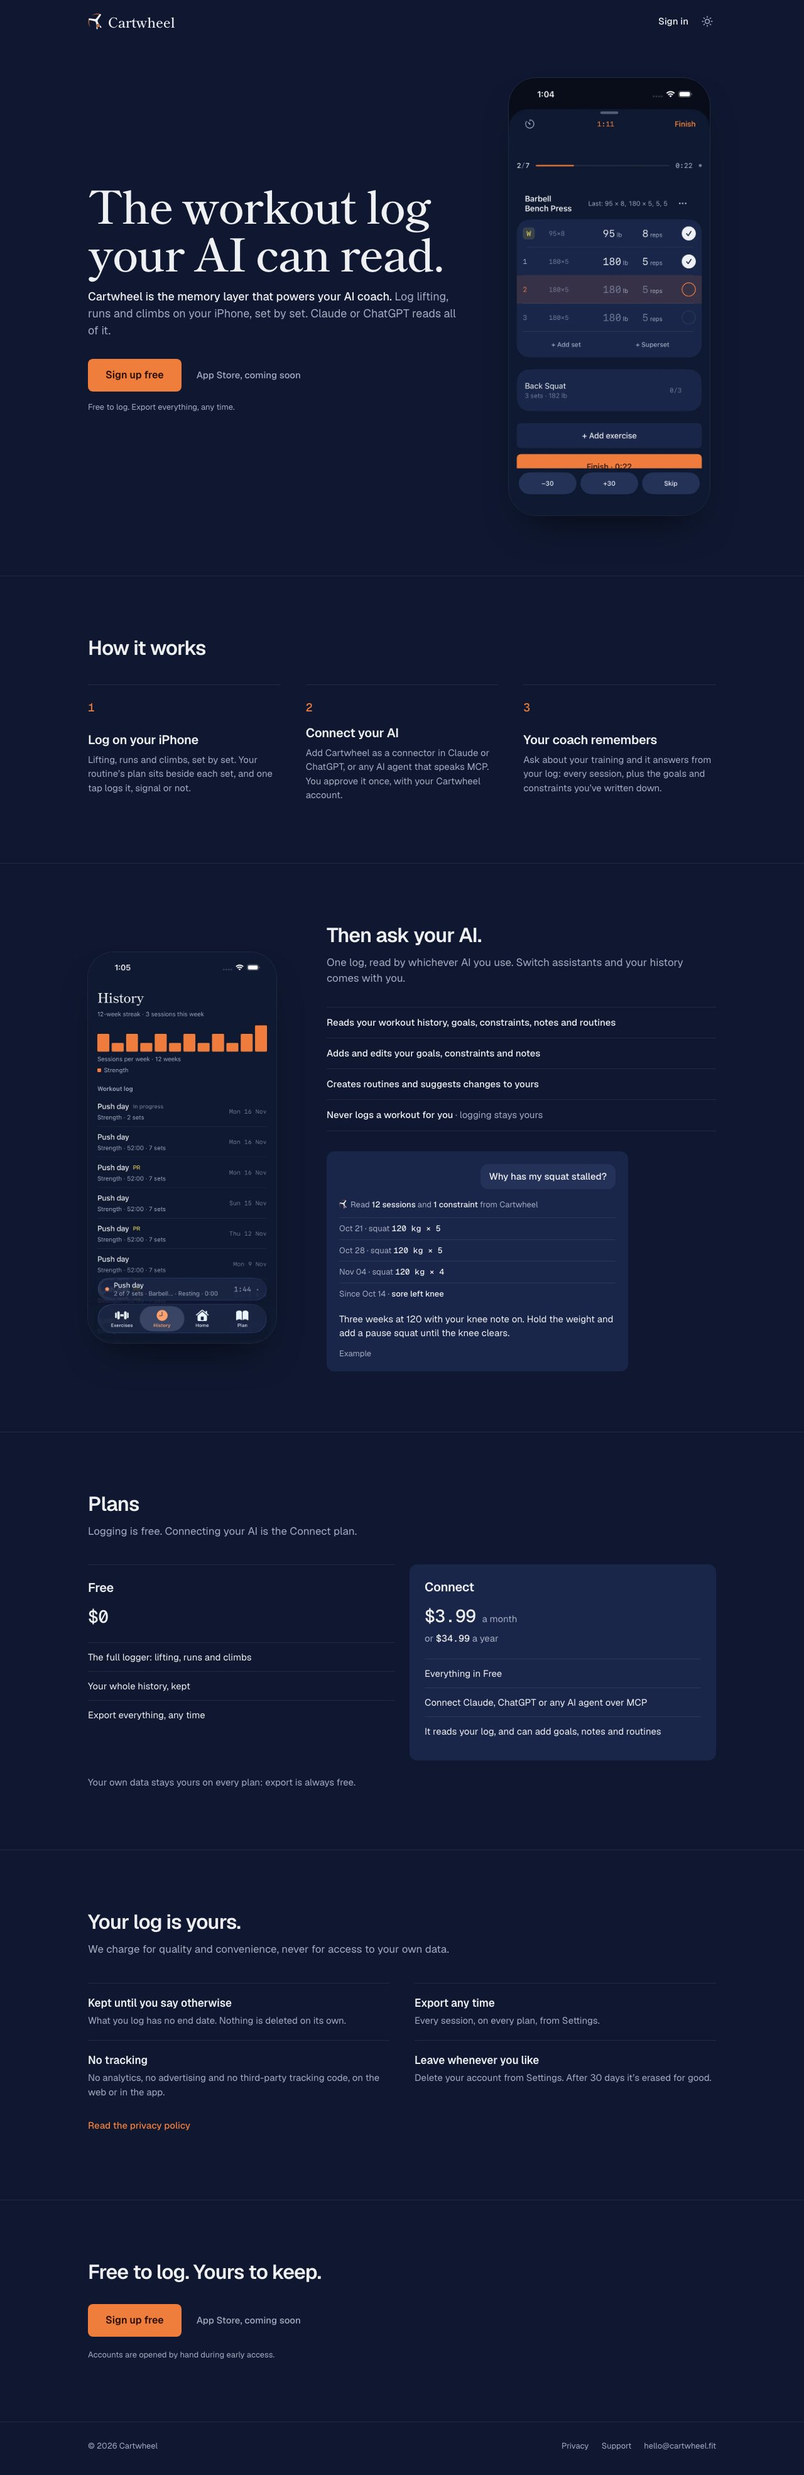
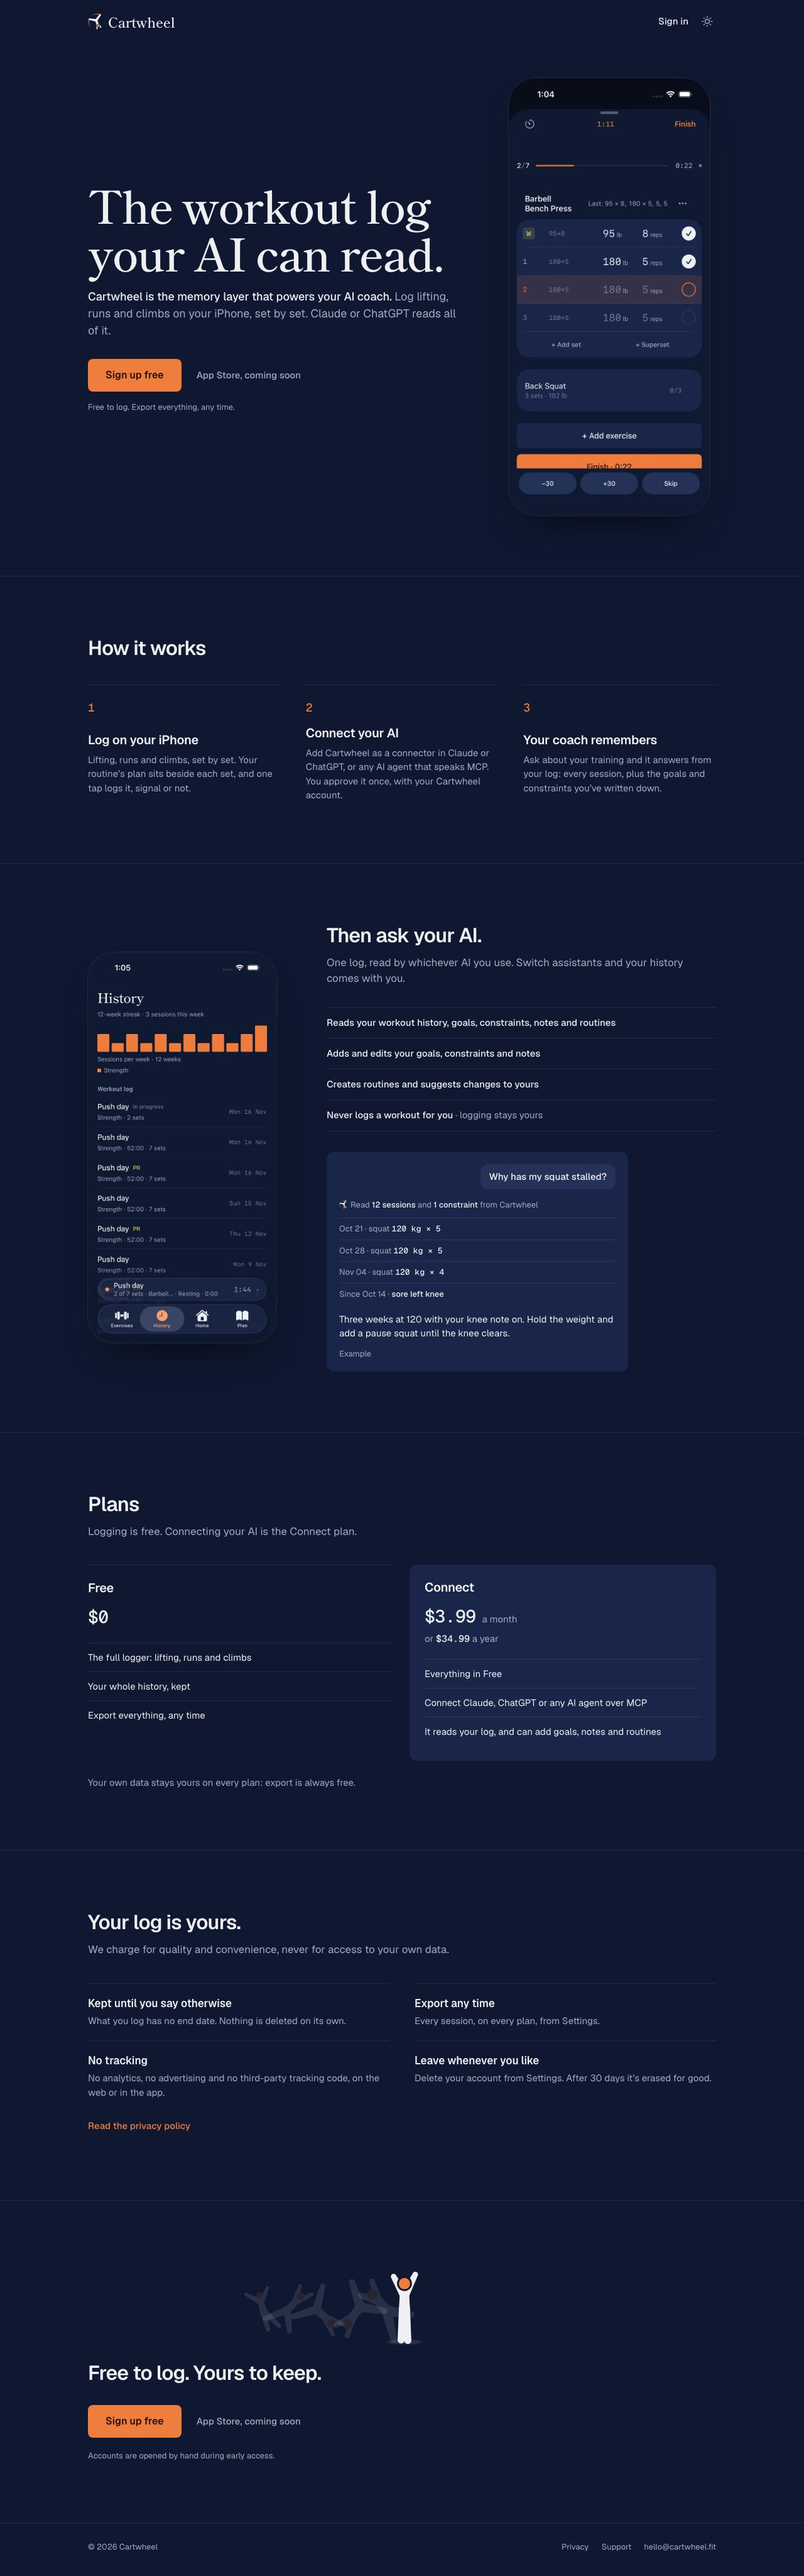
Add the app's cartwheel above the last call to sign up
The icon's figure does one cartwheel and lands at the right, leaving
five faint poses behind it. It is a straight port of the app's
CartwheelTumble (kata AND-1403) to a canvas, with the same keyframes and
numbers. It plays once when it scrolls into view, shows the landed pose
with reduced motion, follows the theme switch, and is hidden without
JavaScript. Screenshots retaken.

diff --git a/index.html b/index.html
@@ -265,6 +265,10 @@
 
     /* Last call */
     .end { text-align: left; }
+    /* The app's cartwheel (kata AND-1403, ios/Kata/Domain/CartwheelTumble.swift), drawn by the
+       script at the end of the page. */
+    .tumble { display: block; width: 100%; max-width: 560px; height: 136px; margin: 0 0 24px; }
+    .tumble[hidden] { display: none; }
     .end .acts { margin-top: 32px; }
     .end .small { margin-top: 20px; font: 400 13px/1.45 var(--sans); color: var(--ink-secondary); max-width: 36em; }
 
@@ -425,6 +429,7 @@
 
     <section class="end" aria-labelledby="h-end">
       <div class="sheet">
+        <canvas class="tumble" data-tumble hidden aria-hidden="true"></canvas>
         <h2 id="h-end">Free to log. Yours to keep.</h2>
         <div class="acts">
           <a class="signup" href="https://app.cartwheel.fit/signup" data-app-path="/signup">Sign up free</a>
@@ -497,6 +502,173 @@
       if (deviceLight.addEventListener) deviceLight.addEventListener('change', sync)
       button.hidden = false
       sync()
+    })()
+    // The app's cartwheel: the icon's figure does one cartwheel and lands at the right, five faint
+    // poses staying behind it. A straight port of kata's CartwheelTumble.swift and
+    // CartwheelTumbleView.swift (AND-1403), same keyframes, same numbers. It plays once when it
+    // scrolls into view; with reduced motion it is landed from the start.
+    ;(function () {
+      var canvas = document.querySelector('[data-tumble]')
+      if (!canvas || !canvas.getContext) return
+      var P = { torso: 16, arm: 28.6, leg: 36, headRadius: 6.6, headOffset: 14.3, gapRadius: 8.7,
+        torsoW: [13, 11.1], legW: [13, 8.1], armW: [10.2, 6.3] }
+      var N = 150, GHOSTS = [33, 52, 70, 88, 108], LAG = 5, DURATION = 2300
+      var T = [0, 0.12, 0.22, 0.32, 0.45, 0.58, 0.70, 0.78, 0.86, 0.93, 1]
+      var ROT = [0, -6, -11, 25, 120, 215, 300, 350, 365, 359, 360]
+      var ARM_R = [24, 60, 150, 158, 158, 158, 156, 150, 120, 156, 146]
+      var ARM_L = [24, 40, 140, 154, 158, 158, 156, 150, 120, 156, 146]
+      var LEG_R = [7, 10, 30, 44, 60, 60, 42, 20, 16, 10, 8]
+      var LEG_L = [7, 4, 0, 14, 60, 60, 32, 25, 16, 10, 8]
+      var KNEE = [0, 0.25, 0.1, 0.1, 0, 0, 0, 0.1, 0.5, 0.1, 0]
+      var JOINTS = ['hip', 'neck', 'head', 'handL', 'handR', 'footL', 'footR']
+      var SCALE = 1.2, H = 132
+
+      function at(v, t) {
+        var i = 0
+        while (i < T.length - 2 && t > T[i + 1]) i++
+        var h = T[i + 1] - T[i], u = Math.min(1, Math.max(0, (t - T[i]) / h))
+        function m(j) { return j <= 0 || j >= T.length - 1 ? 0 : (v[j + 1] - v[j - 1]) / (T[j + 1] - T[j - 1]) }
+        var u2 = u * u, u3 = u2 * u
+        return (2 * u3 - 3 * u2 + 1) * v[i] + (u3 - 2 * u2 + u) * h * m(i) + (-2 * u3 + 3 * u2) * v[i + 1] + (u3 - u2) * h * m(i + 1)
+      }
+      function map(o, f) { var r = {}; JOINTS.forEach(function (j) { r[j] = f(o[j]) }); return r }
+      function body(t, s) {
+        var rad = function (d) { return d * Math.PI / 180 }
+        var rot = at(ROT, t), kb = at(KNEE, t), torso = P.torso * s, arm = P.arm * s, leg = P.leg * s
+        var pts = { hip: { x: 0, y: 0 }, neck: { x: 0, y: -torso }, head: { x: 0, y: -torso - P.headOffset * s } }
+        ;[[-1, 'handL', 'footL', at(ARM_L, t), at(LEG_L, t)], [1, 'handR', 'footR', at(ARM_R, t), at(LEG_R, t)]].forEach(function (q) {
+          var side = q[0], a = rad(q[3]), th = rad(q[4] + kb * 42), sh = rad(q[4] - kb * 46)
+          pts[q[1]] = { x: side * Math.sin(a) * arm, y: -torso + Math.cos(a) * arm }
+          pts[q[2]] = { x: (side * Math.sin(th) + side * Math.sin(sh)) * leg / 2, y: (Math.cos(th) + Math.cos(sh)) * leg / 2 }
+        })
+        var c = Math.cos(rad(rot)), sn = Math.sin(rad(rot))
+        return map(pts, function (p) { return { x: p.x * c - p.y * sn, y: p.x * sn + p.y * c } })
+      }
+      function radius(j, s) {
+        if (j === 'head') return P.gapRadius * s
+        if (j === 'hip' || j === 'neck') return Math.max(P.torsoW[0], P.legW[0], P.armW[0]) / 2 * s
+        return (j === 'handL' || j === 'handR' ? P.armW[1] : P.legW[1]) / 2 * s
+      }
+      function tumble(s, width, ground) {
+        var raw = [], plants = [], anchor = 'footL', ax = 0
+        for (var i = 0; i <= N; i++) {
+          var b = body(i / N, s)
+          var place = function () { var ox = ax - b[anchor].x, oy = ground - b[anchor].y; return map(b, function (p) { return { x: p.x + ox, y: p.y + oy } }) }
+          var w = place(), low = null
+          ;['footL', 'footR', 'handL', 'handR'].forEach(function (c) {
+            if (c !== anchor && w[c].y > ground + 0.01 && (low === null || w[c].y > w[low].y)) low = c
+          })
+          if (low) { anchor = low; ax = w[low].x; w = place(); plants.push({ frame: i, x: ax, hand: low === 'handL' || low === 'handR' }) }
+          raw.push(w)
+        }
+        var shift = width - 26 * s - raw[N].hip.x, xa = raw[0].hip.x + shift, xb = raw[N].hip.x + shift, rise = 14 * s
+        function proj(p) {
+          var u = (p.x - xa) / (xb - xa), k = 0.72 + 0.42 * u
+          return { p: { x: width / 2 + (p.x - width / 2) * 0.9, y: ground - (1 - u) * rise - (ground - p.y) * k }, k: k }
+        }
+        var minX = Infinity
+        var frames = raw.map(function (r) {
+          var world = map(r, function (p) { return { x: p.x + shift, y: p.y } })
+          var k = proj(world.hip).k, joints = map(world, function (p) { return proj(p).p })
+          JOINTS.forEach(function (j) { minX = Math.min(minX, joints[j].x - radius(j, s * k)) })
+          return { joints: joints, k: k, hipX: world.hip.x }
+        })
+        var prints = plants.filter(function (q) { return q.hand }).map(function (q) {
+          var r = proj({ x: q.x + shift, y: ground }); return { frame: q.frame, p: r.p, k: r.k }
+        })
+        return { s: s, ground: ground, frames: frames, prints: prints, proj: proj, fit: minX >= 0 ? 1 : width / (width - minX) }
+      }
+
+      var reduce = window.matchMedia('(prefers-reduced-motion: reduce)')
+      var ctx = canvas.getContext('2d'), model = null, key = '', frame = 0
+      // Each faint pose is drawn whole on its own layer, then laid down at its opacity, so its
+      // overlapping limbs do not add up (the app's drawLayer).
+      var layer = document.createElement('canvas'), lctx = layer.getContext('2d'), pen = ctx
+      function color(name) { return getComputedStyle(document.documentElement).getPropertyValue(name).trim() }
+      function circle(p, r) { pen.beginPath(); pen.arc(p.x, p.y, r, 0, Math.PI * 2); pen.fill() }
+      function bar(a, b, w0, w1) {
+        var dx = b.x - a.x, dy = b.y - a.y, len = Math.max(Math.hypot(dx, dy), 1e-9), nx = -dy / len, ny = dx / len, r0 = w0 / 2, r1 = w1 / 2
+        circle(a, r0); circle(b, r1)
+        pen.beginPath()
+        pen.moveTo(a.x + nx * r0, a.y + ny * r0); pen.lineTo(b.x + nx * r1, b.y + ny * r1)
+        pen.lineTo(b.x - nx * r1, b.y - ny * r1); pen.lineTo(a.x - nx * r0, a.y - ny * r0)
+        pen.closePath(); pen.fill()
+      }
+      function figure(f, s0, cut, c) {
+        var s = s0 * f.k, w = f.joints
+        pen.fillStyle = c.ink
+        bar(w.hip, w.neck, P.torsoW[0] * s, P.torsoW[1] * s)
+        bar(w.hip, w.footL, P.legW[0] * s, P.legW[1] * s); bar(w.neck, w.handL, P.armW[0] * s, P.armW[1] * s)
+        bar(w.hip, w.footR, P.legW[0] * s, P.legW[1] * s); bar(w.neck, w.handR, P.armW[0] * s, P.armW[1] * s)
+        if (cut) { pen.fillStyle = c.bg; circle(w.head, P.gapRadius * s) }
+        pen.fillStyle = c.accent; circle(w.head, P.headRadius * s)
+      }
+      function draw(i) {
+        frame = i
+        var W = canvas.clientWidth, dpr = window.devicePixelRatio || 1
+        if (!W) return
+        var k = W + 'x' + dpr
+        if (k !== key) { key = k; canvas.width = Math.round(W * dpr); canvas.height = Math.round((H + 4) * dpr); layer.width = canvas.width; layer.height = canvas.height; model = tumble(SCALE, W, H - 6) }
+        var light = (document.documentElement.getAttribute('data-theme') || (window.matchMedia('(prefers-color-scheme: light)').matches ? 'light' : 'dark')) === 'light'
+        var c = { ink: color('--ink'), bg: color('--background'), accent: color('--accent'), shadow: color('--ink-tertiary') }
+        ctx.setTransform(dpr, 0, 0, dpr, 0, 0)
+        ctx.clearRect(0, 0, W, H + 4)
+        var g = model.fit
+        ctx.translate(W, H); ctx.scale(g, g); ctx.translate(-W, -H)
+        var s = model.s, f = model.frames[i]
+        // The soft shadow under the hip.
+        var sh = model.proj({ x: f.hipX, y: model.ground + 2 * s }).p
+        ctx.globalAlpha = 0.55 * 0.4; ctx.fillStyle = c.shadow
+        ctx.beginPath(); ctx.ellipse(sh.x, sh.y, 20 * s * f.k, 3 * s * f.k, 0, 0, Math.PI * 2); ctx.fill()
+        // Hand prints fade over 55 frames and spread a little.
+        ctx.fillStyle = c.accent
+        model.prints.forEach(function (q) {
+          if (q.frame > i) return
+          var age = (i - q.frame) / 55
+          if (age >= 1) return
+          ctx.globalAlpha = 0.8 * (1 - age)
+          circle({ x: q.p.x, y: q.p.y + 2 * s }, 2.4 * s * q.k * (1 + age * 0.6))
+        })
+        // The poses left behind, faint (11% on dark, 10% on light).
+        ctx.globalAlpha = 1
+        GHOSTS.forEach(function (gf) {
+          if (gf >= i - LAG) return
+          pen = lctx
+          lctx.setTransform(1, 0, 0, 1, 0, 0); lctx.clearRect(0, 0, layer.width, layer.height)
+          lctx.setTransform(ctx.getTransform())
+          figure(model.frames[gf], s, false, c)
+          pen = ctx
+          ctx.save(); ctx.setTransform(1, 0, 0, 1, 0, 0); ctx.globalAlpha = light ? 0.10 : 0.11
+          ctx.drawImage(layer, 0, 0); ctx.restore()
+        })
+        figure(f, s, true, c)
+      }
+      function play() {
+        var start = null
+        function step(now) {
+          if (start === null) start = now
+          var t = Math.min(1, (now - start) / DURATION)
+          draw(Math.min(N, Math.max(0, Math.round(t * N))))
+          if (t < 1) requestAnimationFrame(step)
+        }
+        requestAnimationFrame(step)
+      }
+
+      canvas.hidden = false
+      if (reduce.matches || !('IntersectionObserver' in window)) {
+        draw(N)
+      } else {
+        draw(0)
+        var seen = new IntersectionObserver(function (entries) {
+          if (entries.some(function (e) { return e.isIntersecting })) { seen.disconnect(); play() }
+        }, { threshold: 0.6 })
+        seen.observe(canvas)
+      }
+      // Redraw the current frame when the width or the theme changes.
+      if ('ResizeObserver' in window) new ResizeObserver(function () { draw(frame) }).observe(canvas)
+      new MutationObserver(function () { draw(frame) }).observe(document.documentElement, { attributes: true, attributeFilter: ['data-theme'] })
+      var scheme = window.matchMedia('(prefers-color-scheme: light)')
+      if (scheme.addEventListener) scheme.addEventListener('change', function () { draw(frame) })
     })()
   </script>
 </body>

diff --git a/README.md b/README.md
@@ -29,6 +29,7 @@ Both live in the `window.CARTWHEEL` block at the top of `index.html`:
 - It looks like the app: the same colour tokens in dark and light, the same type, radius and spacing (kata `src/app/globals.css`, `docs/design-system.md`). Dark is the default; a device set to light gets the app's light theme. The switch at the top right picks one theme for that browser and remembers it; without JavaScript it is hidden and the page follows the device.
 - Prices match the app's (`src/lib/billing/prices.ts` in kata). Change both together.
 - Every feature it shows is one the app has today.
+- The cartwheel above the last call to sign up is the app's own (kata AND-1403: `ios/Kata/Domain/CartwheelTumble.swift` and `CartwheelTumbleView.swift`), ported to a canvas with the same keyframes and numbers. If the app's changes, port it again rather than tuning it here. It plays once when it scrolls into view; with reduced motion it shows the landed pose, and without JavaScript it is not shown.
 - The screens in `img/` are real captures from the iOS app, signed in to a throwaway local test account, in both themes (`*-dark.webp`, `*-light.webp`, 720px wide). Retake them when the screens change.
 
 ## Licences
